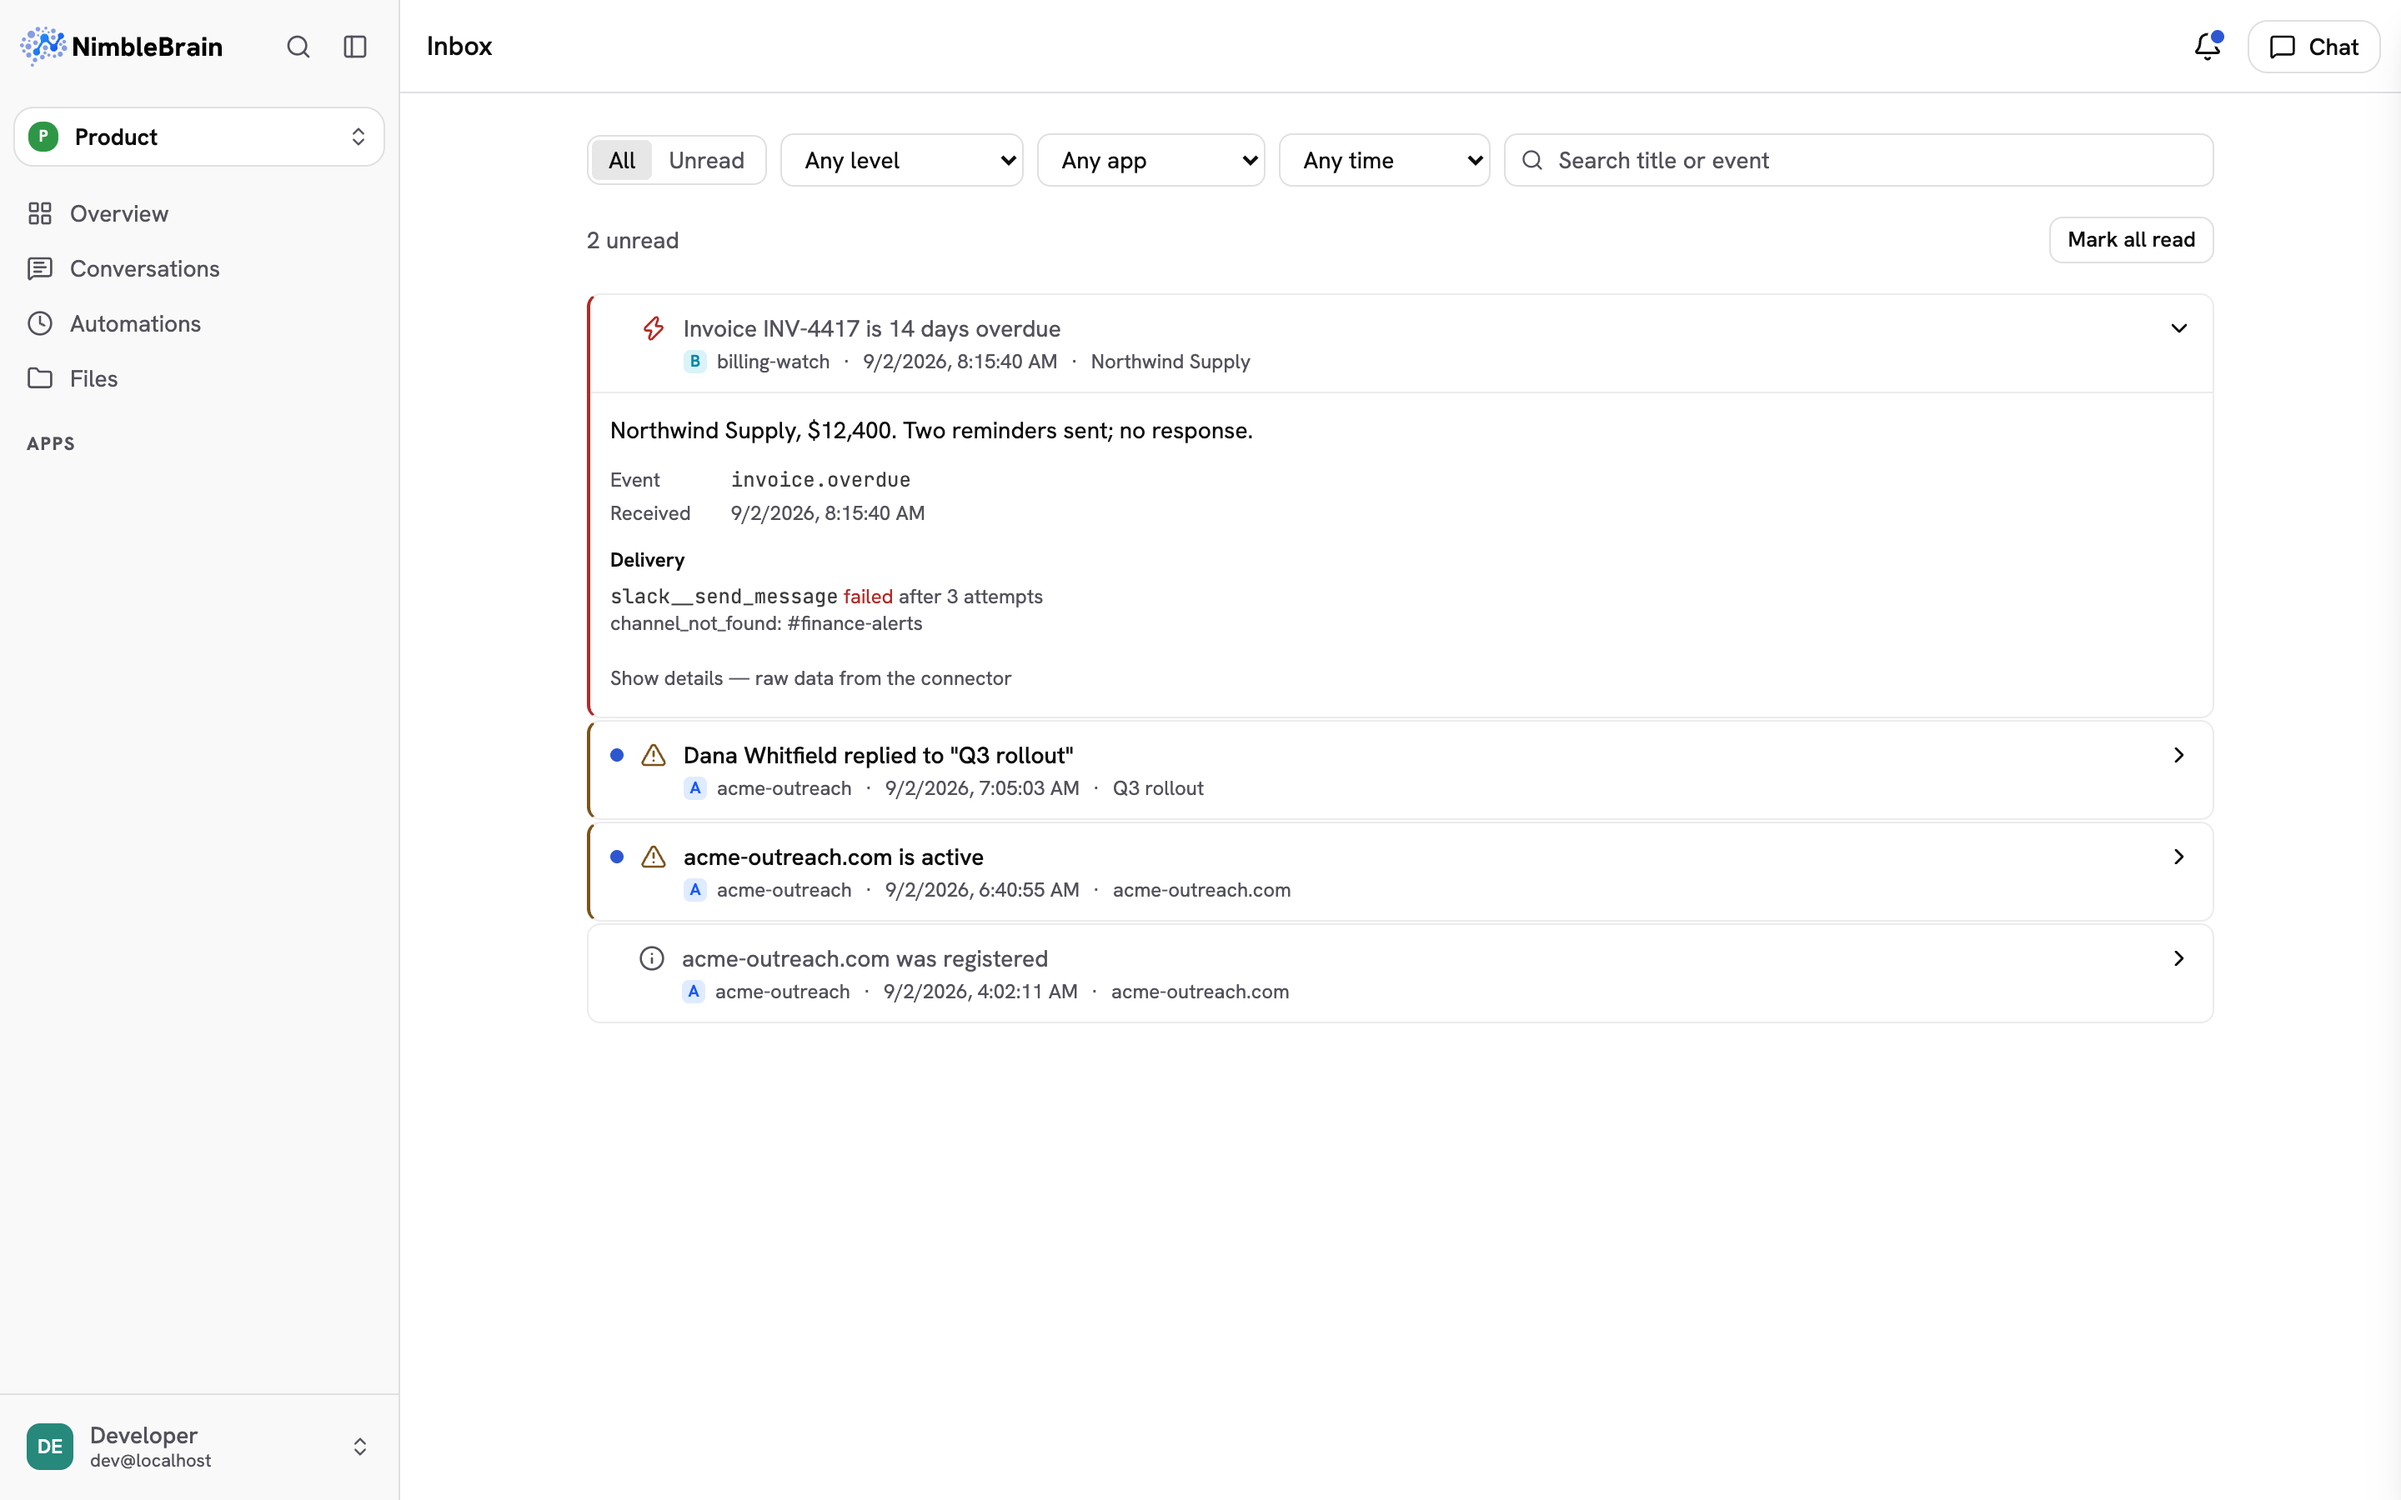
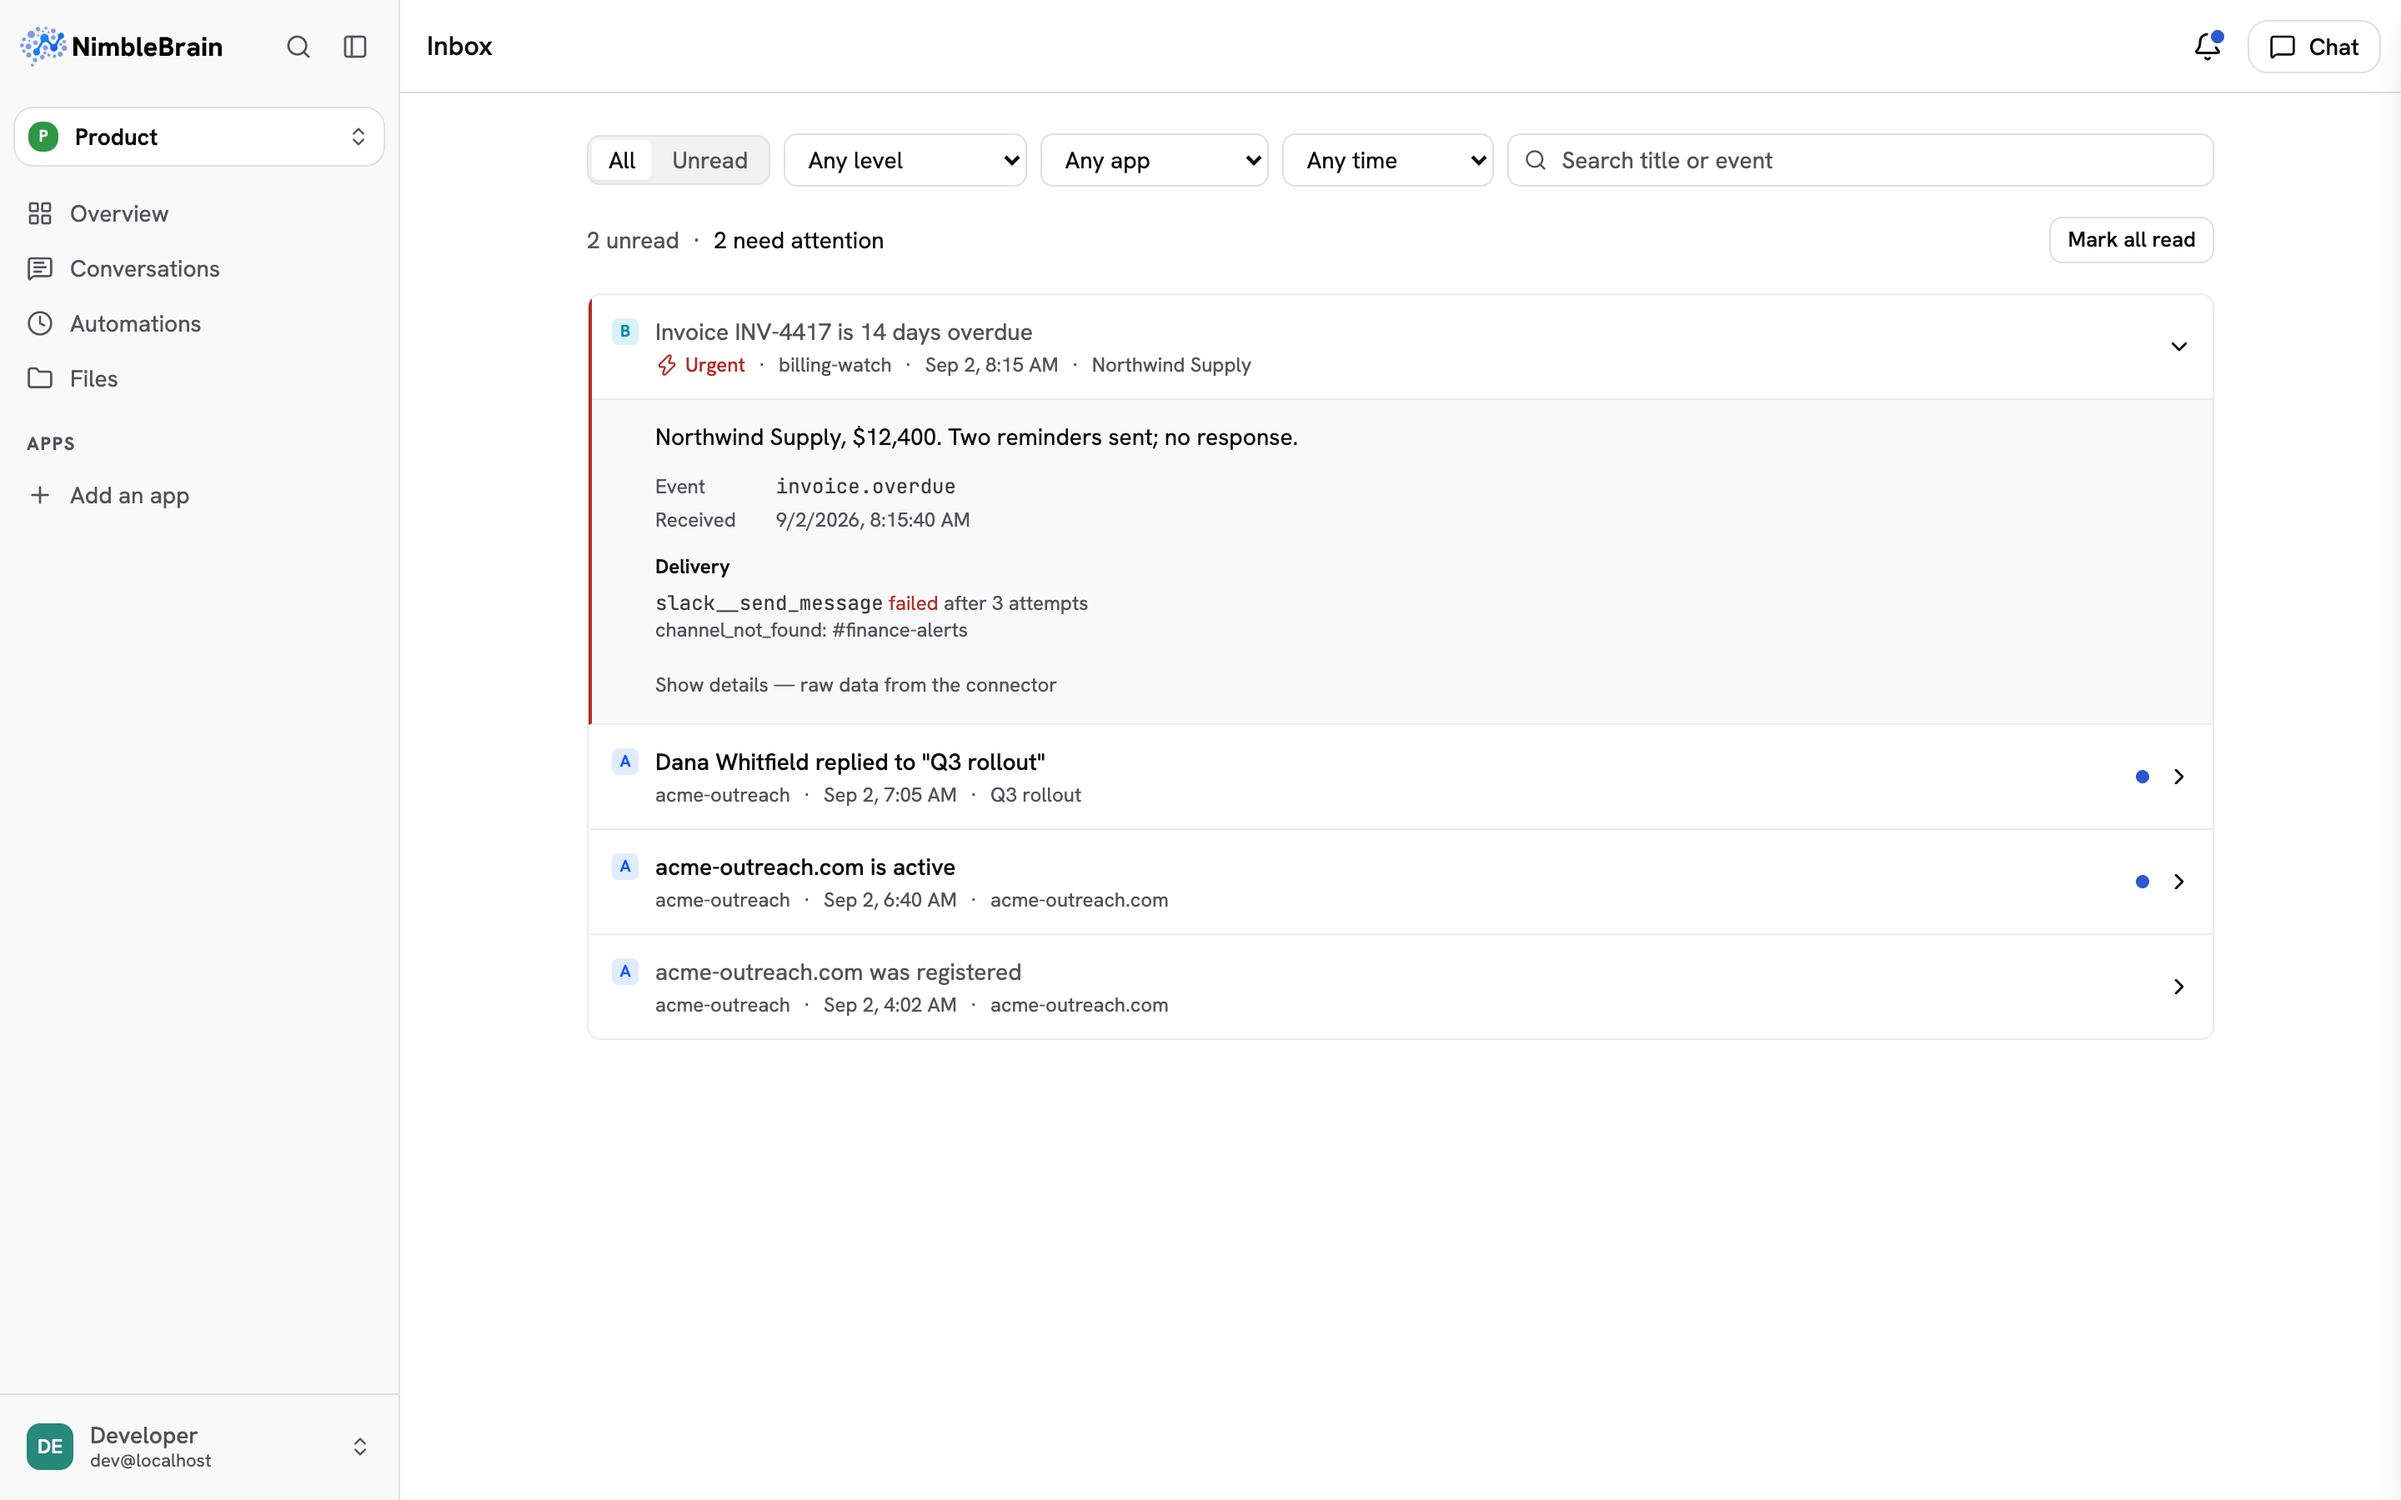
docs: notification levels are urgency, not tone; neutral attention counter (#1556)

diff --git a/web/src/pages/NotificationsPage.tsx b/web/src/pages/NotificationsPage.tsx
@@ -543,7 +543,8 @@ function InboxSummary({
               type="button"
               data-testid="inbox-needs-attention"
               onClick={onShowAttention}
-              className="text-warning underline-offset-2 hover:underline"
+              // A filter link, not a warning: attention items include good news.
+              className="text-foreground underline-offset-2 hover:underline"
             >
               {`${attention.count}${attention.more ? "+" : ""} need attention`}
             </button>
